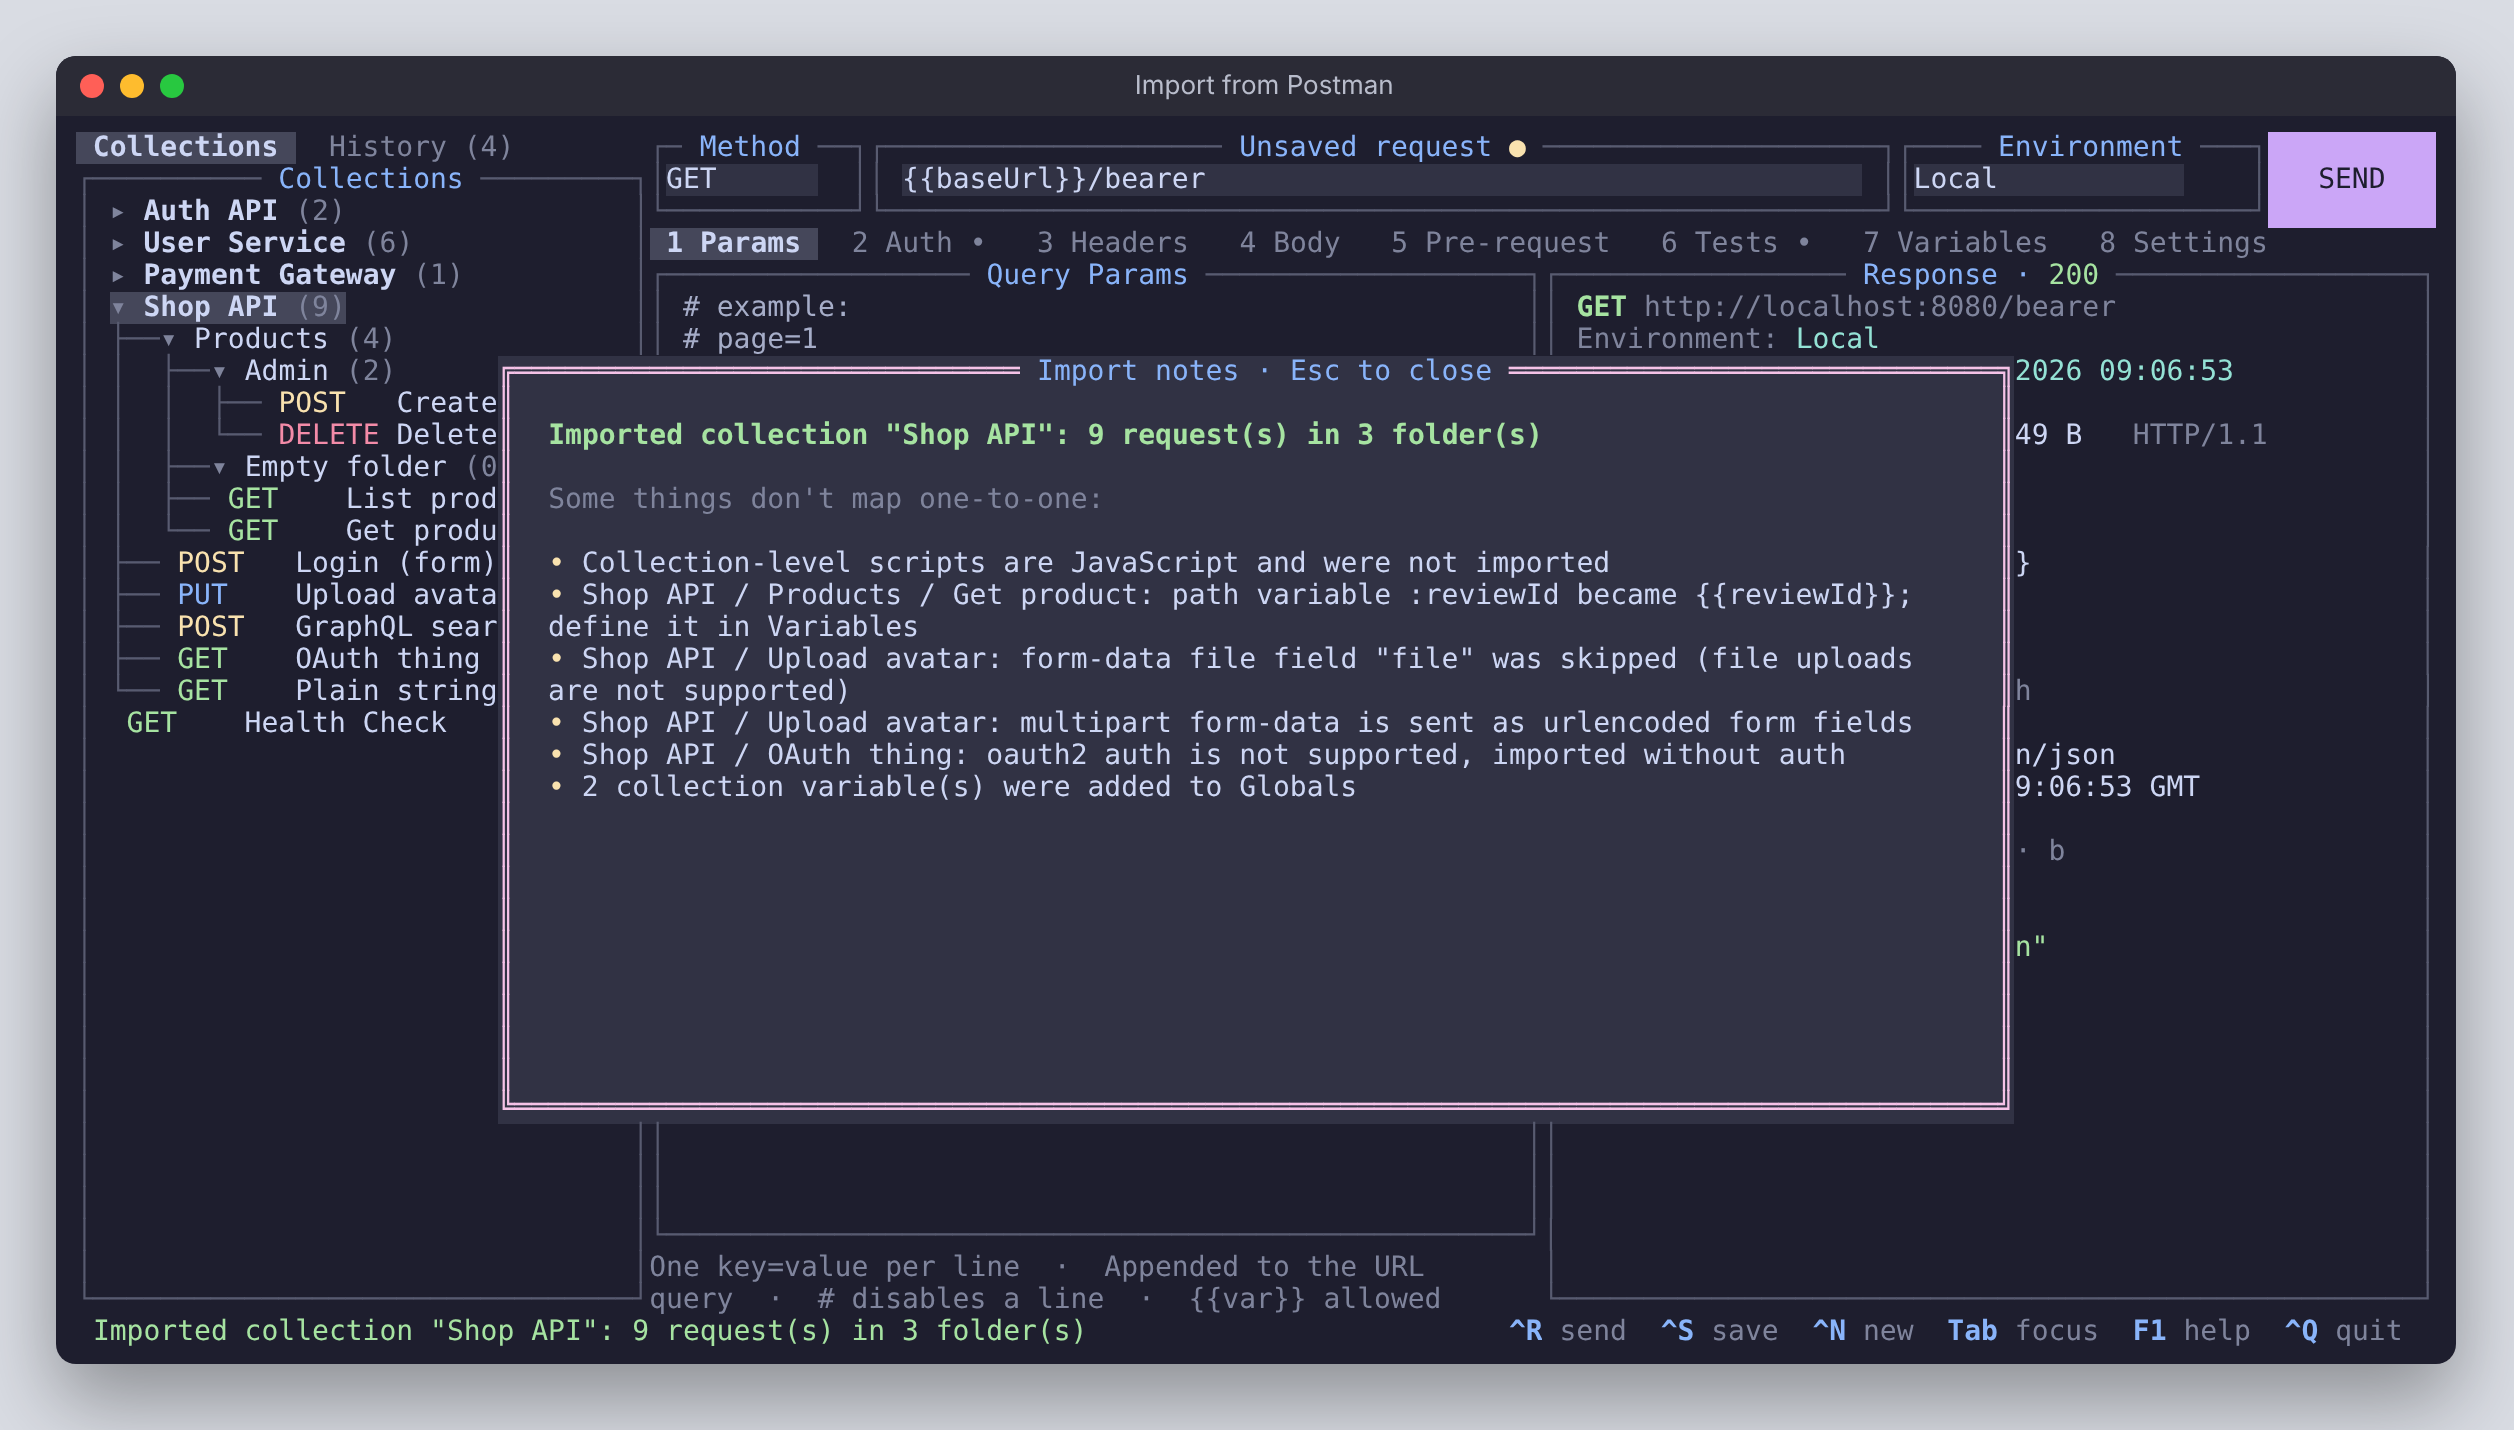
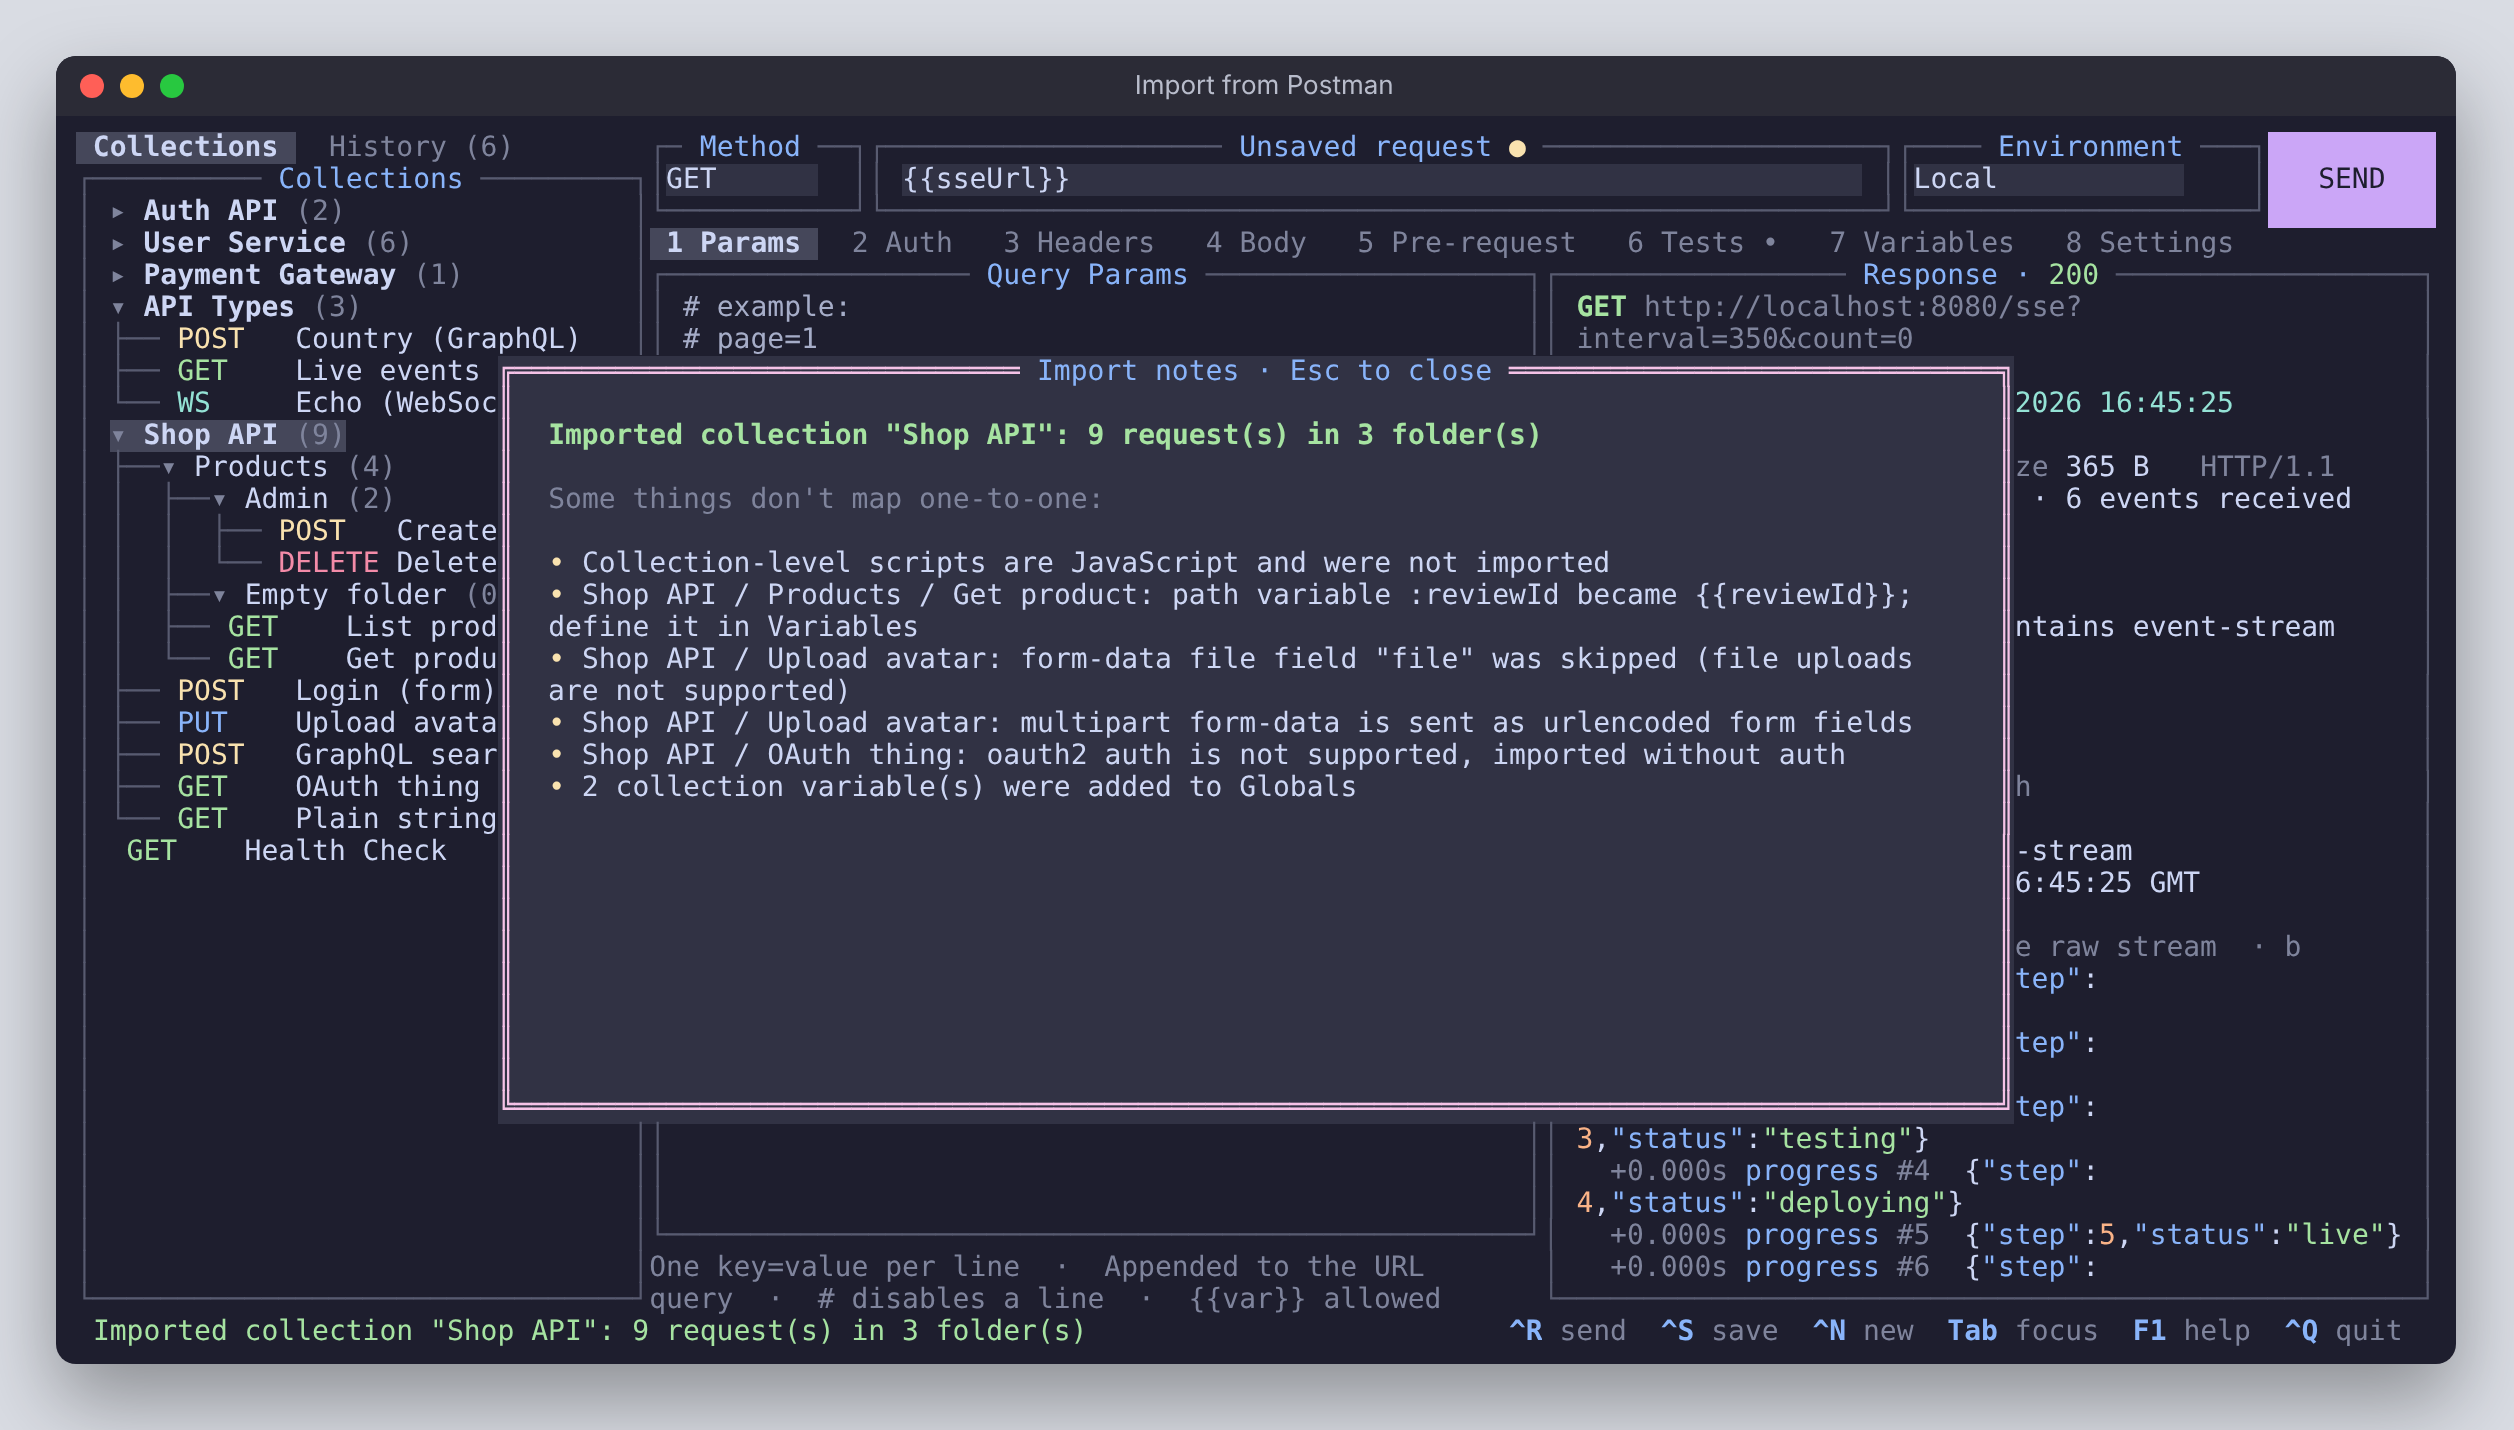
Document streaming, GraphQL and WebSocket; new screenshots
- README: features, keys (F6, Esc), Streaming / GraphQL / WebSocket
  sections, events test subjects, run -stream, roadmap
- CHANGELOG: v0.2.0 section and the new Unreleased entries
- ARCHITECTURE: streams and WebSockets
- Screenshots: streaming, graphql-schema, graphql, websocket; all
  regenerated
- Status bar counts events while a stream runs
- Release workflow installs websockets for the snippet tests

Claude-Session: https://claude.ai/code/session_01N51h8fecMBxafhDg72bN2t

diff --git a/internal/ui/screenshots_test.go b/internal/ui/screenshots_test.go
@@ -60,6 +60,9 @@ func TestScreenshots(t *testing.T) {
 		ws := storage.SampleWorkspace()
 		ws.Environment("Local").Variables[0].Value = base
 		ws.SetActive("Local")
+		ws.SetVariable("graphqlUrl", base+"/graphql")
+		ws.SetVariable("sseUrl", base+"/sse?interval=350&count=0")
+		ws.SetVariable("wsUrl", "ws"+strings.TrimPrefix(base, "http")+"/ws")
 		ws.Settings.Theme = theme
 		h := start(t, ws)
 		h.screen.SetSize(shotW, shotH)
@@ -126,6 +129,47 @@ func TestScreenshots(t *testing.T) {
 	writeShot(t, h, dir, "code", "Code snippets")
 	h.key(tcell.KeyRune, '1', 0)
 	h.key(tcell.KeyEsc, 0, 0)
+
+	// 4c. A live Server-Sent Events stream.
+	open(h, reqAt(t, ws, "API Types/Live events (SSE)"), 5)
+	h.key(tcell.KeyCtrlR, 0, tcell.ModCtrl)
+	h.eventually("events", func() bool {
+		r := h.a.result
+		return r != nil && r.resp != nil && len(r.resp.Events) >= 6
+	})
+	h.do(func() { h.a.tv.SetFocus(h.a.tree) })
+	writeShot(t, h, dir, "streaming", "Server-Sent Events")
+	h.key(tcell.KeyEsc, 0, 0)
+	h.eventually("stopped", func() bool { return !h.a.sending })
+
+	// 4d. GraphQL schema browser, then the query it writes, sent.
+	open(h, reqAt(t, ws, "API Types/Country (GraphQL)"), 3)
+	h.key(tcell.KeyF6, 0, 0)
+	h.eventually("schema", func() bool { return len(h.a.dialogs) == 1 })
+	h.key(tcell.KeyDown, 0, 0)
+	h.key(tcell.KeyRight, 0, 0)
+	writeShot(t, h, dir, "graphql-schema", "GraphQL schema")
+	h.key(tcell.KeyEnter, 0, 0)
+	h.do(func() {
+		h.a.gqlVarsArea.SetText("{\n  \"code\": \"{{country}}\"\n}", false)
+		h.a.tv.SetFocus(h.a.urlInput)
+	})
+	send(h)
+	writeShot(t, h, dir, "graphql", "GraphQL")
+
+	// 4e. A WebSocket session.
+	open(h, reqAt(t, ws, "API Types/Echo (WebSocket)"), 3)
+	h.key(tcell.KeyCtrlR, 0, tcell.ModCtrl)
+	h.eventually("connected", func() bool { s := h.a.wsSession(); return s.open() && len(s.messages) == 1 })
+	h.key(tcell.KeyCtrlR, 0, tcell.ModCtrl)
+	h.eventually("echo", func() bool { return len(h.a.wsSession().messages) == 3 })
+	h.do(func() { h.a.bodyArea.SetText("{\n  \"type\": \"subscribe\",\n  \"channel\": \"orders\"\n}", false) })
+	h.key(tcell.KeyCtrlR, 0, tcell.ModCtrl)
+	h.eventually("second echo", func() bool { return len(h.a.wsSession().messages) == 5 })
+	h.do(func() { h.a.tv.SetFocus(h.a.tree) })
+	writeShot(t, h, dir, "websocket", "WebSocket")
+	h.do(func() { h.a.wsDisconnect() })
+	h.eventually("closed", func() bool { return !h.a.wsSession().open() })
 
 	// 5. Help overlay.
 	h.key(tcell.KeyF1, 0, 0)

diff --git a/internal/ui/send.go b/internal/ui/send.go
@@ -289,6 +289,9 @@ func (a *App) streamUpdater(res *sendResult) func(*httpclient.Response) {
 					return // finished or superseded in the meantime
 				}
 				res.resp = snap
+				if snap.Stream != "" {
+					a.setStatus(levelInfo, fmt.Sprintf("Streaming: %s so far. Esc stops", plural(len(snap.Events), "event")))
+				}
 				a.renderResponse()
 				if a.tv.GetFocus() != a.response {
 					a.response.ScrollToEnd() // follow the stream unless the user is reading

diff --git a/docs/ARCHITECTURE.md b/docs/ARCHITECTURE.md
@@ -9,6 +9,7 @@ internal/storage       JSON workspace file: Load, atomic Save, DefaultPath, Samp
 internal/vars          {{name}} substitution and dynamic variables ($uuid, $timestamp, ...)
 internal/engine        Prepare(Request, vars) -> *http.Request (+ missing vars, warnings); Curl()
 internal/script        RunPre (set/unset) and RunTests (assertions and captures)
+internal/graphql       introspection query, schema parsing and query skeletons (schema browser)
 internal/curl          curl command line parser (shell quoting, curl options -> Request) and export (Resolved, Template)
 internal/codegen       request -> curl / Python / JavaScript / Go / HTTPie (one Spec, a generator per language)
 internal/clipboard     Copy(text): pbcopy / wl-copy / xclip / xsel / clip, OSC 52 fallback
@@ -16,7 +17,8 @@ internal/postman       Postman import and export (collections, environments, glo
 internal/cli           headless commands (list, run, env, import, export, curl, history)
 internal/ui            tview application
 internal/testutil      httpbin-compatible test server
-pkg/httpclient         http.Client wrapper: timeout, redirects, TLS, cancellation, timing
+pkg/httpclient         http.Client wrapper: timeout, redirects, TLS, cancellation, timing, live streams
+pkg/wsclient           WebSocket connections (coder/websocket): handshake from a prepared request, messages in and out
 ```
 
 Dependencies point one way: `ui` and `cli` use `engine`, `script`, `storage` and `pkg/httpclient`; those use `models` and `vars`. Nothing below `ui` imports tview, so everything except the screen code can be tested without a terminal.
@@ -61,6 +63,12 @@ Collections form a tree: `Collection.Folders` holds nested collections (shown as
 ## Environments
 
 `Workspace.Variables` are the globals; `Workspace.Environments` are named sets and `ActiveEnvironment` names the active one. `VariableMap()` merges globals with the active environment on top, and everything that resolves variables (engine, scripts, CLI) goes through it. `SetVariable` updates a variable where it already lives (active environment first, then globals) and puts new ones in the active environment, so script captures land where you'd expect. `ui/env.go` holds the picker and the Variables tab's environment manager.
+
+## Streams and WebSockets
+
+`httpclient.DoStream` reads the body in chunks. When the Content-Type is a stream (`text/event-stream`, NDJSON types), it stops the timeout once the headers arrive, parses events incrementally (`streamParser` follows the SSE rules of the HTML standard, including CR/LF/CRLF split across chunks), and calls an update function with a snapshot after each chunk. Snapshots cap the body and event slices at their current length, so they can cross goroutines without copying: the client only ever appends. `ui.streamUpdater` coalesces updates to one redraw per 80 ms. Cancelling after the headers ends the stream with `Stopped` set and the data kept, so tests and History see a normal response.
+
+A WebSocket request is `Type: websocket`. `engine.Prepare` builds its handshake (a GET with params, headers and auth) and resolves the message. `ui/websocket.go` keeps a `wsSession` in the `sendResult`: a read goroutine queues each message onto the UI goroutine, and when the connection ends the tests run with the received messages as `script.Response.Events`. The CLI does the same in `runWebSocket`, ending after a quiet second.
 
 ## Code generation
 

diff --git a/CHANGELOG.md b/CHANGELOG.md
@@ -8,6 +8,24 @@ and this project adheres to [Semantic Versioning](https://semver.org/spec/v2.0.0
 ## [Unreleased]
 
 ### Added
+- Streaming responses: Server-Sent Events and NDJSON are shown live, each event with
+  its arrival time, type and id. The timeout stops at the headers, `Esc` stops the
+  stream and keeps what arrived, and History keeps it. Test subjects `events` and
+  `event[i]` / `event[i].json.path`. `run` follows streams until `-stream` runs out.
+- GraphQL: a GraphQL body type with Query and Variables editors, sent as JSON (or in
+  the URL for GET). `F6` browses the schema by introspection and writes a query with
+  variables for a field. Code snippets, curl import/export and Postman's graphql body
+  mode all handle it.
+- WebSocket requests (WS in the method dropdown): connect with params, headers and
+  auth in the handshake, send the Body tab as messages, and watch a live sent/received
+  log; tests run on the received messages when the connection ends. `run` connects,
+  sends and collects replies for CI. Snippets in JavaScript, Python, Go and websocat.
+- Sample "API Types" collection: GraphQL (countries API), SSE (Wikimedia live edits)
+  and WebSocket (Postman echo).
+
+## [0.2.0] - 2026-10-09
+
+### Added
 - Prebuilt binaries: `make release` / `scripts/release.sh` build macOS, Linux and
   Windows archives with SHA256SUMS; a Release workflow publishes them on a `v*` tag;
   `get.sh` installs the right one with a single `curl ... | sh`, no Go needed.
@@ -104,7 +122,8 @@ and this project adheres to [Semantic Versioning](https://semver.org/spec/v2.0.0
 
 ---
 
-[Unreleased]: https://github.com/AbyAbyss/cli-rest-client/compare/v0.1.0...HEAD
+[Unreleased]: https://github.com/AbyAbyss/cli-rest-client/compare/v0.2.0...HEAD
+[0.2.0]: https://github.com/AbyAbyss/cli-rest-client/releases/tag/v0.2.0
 [0.1.0]: https://github.com/AbyAbyss/cli-rest-client/releases/tag/v0.1.0
 
 
